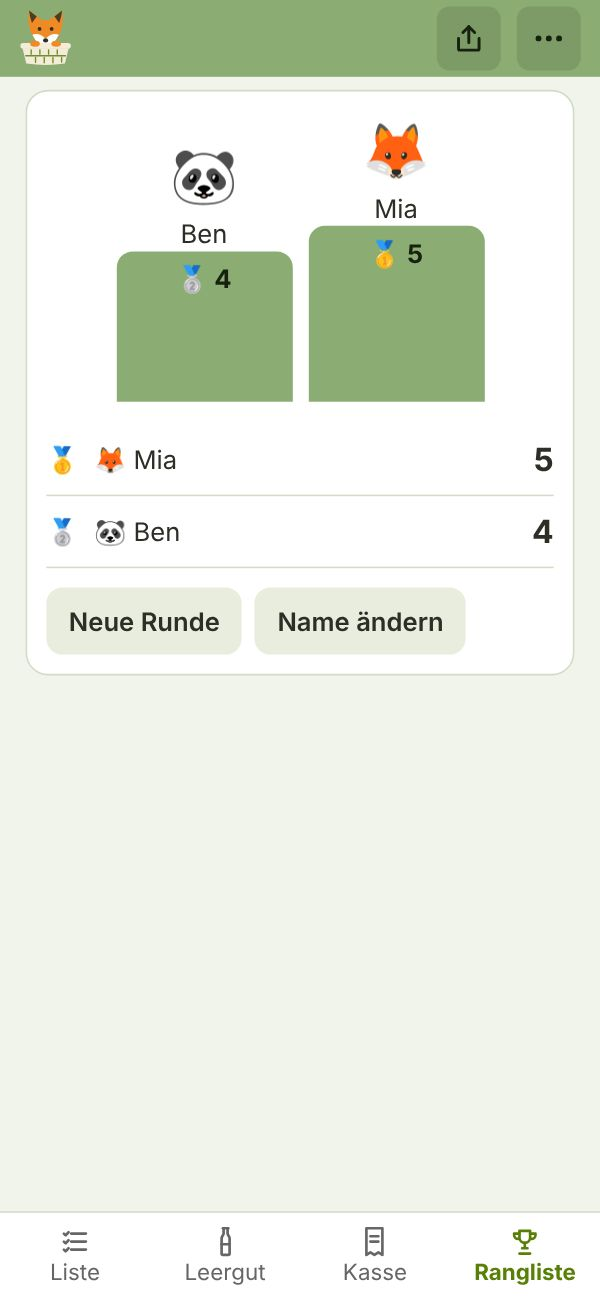
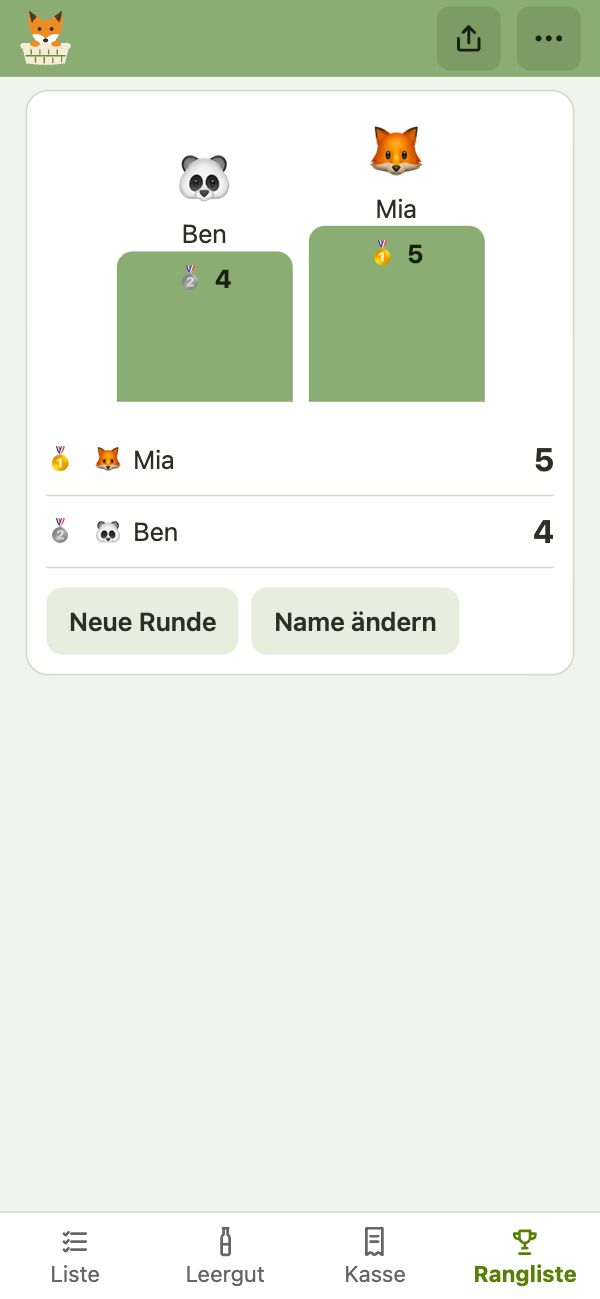
Regenerate screenshots for v2.4.1; hide build line in the menu shot; new README picture name
AGENTS.md: check for stale screenshots before every release.

diff --git a/AGENTS.md b/AGENTS.md
@@ -15,7 +15,7 @@ Guidance for AI agents and humans working on **Kober** (repository `kober`): a s
 - `public/` is the whole app (static, ES modules, no build). Served by GitHub Pages.
   - `app.js` UI and flows, `flows.js` the pure logic behind some flows (reset plan, too-long numbers, checkout ticks, VG loader state, first upload; DOM-free so `test/flows.test.js` covers it), `store.js` data layer, `vg.js` VG data, `i18n.js` texts, `sw.js` service worker, `legal-config.js` contact for the privacy page.
   - `privacy.html`, `docs/index.html` (help page for end users), `vendor/` (third-party: qrcode MIT, zxing Apache 2.0 with `zxing-LICENSE.txt`; excluded from checks). `privacy.html` and `docs/index.html` load their script from `privacy.js` and `docs/help.js`: all pages carry a Content-Security-Policy `<meta>` without inline scripts (`test/csp.test.js`). A new external host (fetch, script) must be added to the CSP in `index.html`.
-- Help page screenshots (`public/docs/img/<lang>-<scene>.jpg`) are built **locally and only when the user explicitly asks for it** (not in CI, not automatically after UI changes). The agent runs `npm run docs:screenshots` (`scripts/docs-screenshots.mjs`: `playwright-core` with the installed Chrome or `CHROME_PATH`, the real app in demo mode with Firebase off, invented VG demo data from `scripts/fixtures/vg/`, 375px, German and English). **Every generated image must be looked at (Read tool) before it is committed**: no cut-off or overlapping text, no toast or demo banner, no half-rendered state, the right language, the current UI (new buttons, colours). If something is off, fix the script or the app and render again. `npm run docs:screenshots -- /tmp/shots` previews without touching the repo. The same run also writes `readme-phones.png` (the README picture: the English list and ranking screens side by side in rounded phone frames with captions, transparent corners); it is not part of the help page, so regenerate and commit it together with the other images when the UI changes visibly (use a new file name when it changes, because GitHub caches README images by URL). **Order of work: screenshots come last.** Implement everything else first (code, texts, docs, tests), commit and push that, and only then render, check and commit the images, followed by a second push. Rendering earlier wastes work because every further UI change makes the images stale again. The images are not refreshed by UI changes on their own: when a change is visible in a screenshot scene, tell the user and offer to regenerate.
+- Help page screenshots (`public/docs/img/<lang>-<scene>.jpg`) are built **locally and only when the user explicitly asks for it** (not in CI, not automatically after UI changes). Exception: **before every release** check whether they are stale (`git log` of the UI files since the last commit of `public/docs/img`) and, if so, propose regenerating them first, so the release ships current images; the user's yes to that proposal is the ask. The menu scene hides the build line ("Kober dev"), so a release itself never makes the images stale. The agent runs `npm run docs:screenshots` (`scripts/docs-screenshots.mjs`: `playwright-core` with the installed Chrome or `CHROME_PATH`, the real app in demo mode with Firebase off, invented VG demo data from `scripts/fixtures/vg/`, 375px, German and English). **Every generated image must be looked at (Read tool) before it is committed**: no cut-off or overlapping text, no toast or demo banner, no half-rendered state, the right language, the current UI (new buttons, colours). If something is off, fix the script or the app and render again. `npm run docs:screenshots -- /tmp/shots` previews without touching the repo. The same run also writes `readme-phones-2.png` (the README picture: the English list and ranking screens side by side in rounded phone frames with captions, transparent corners); it is not part of the help page, so regenerate and commit it together with the other images when the UI changes visibly (use a new file name when it changes, because GitHub caches README images by URL). **Order of work: screenshots come last.** Implement everything else first (code, texts, docs, tests), commit and push that, and only then render, check and commit the images, followed by a second push. Rendering earlier wastes work because every further UI change makes the images stale again. The images are not refreshed by UI changes on their own: when a change is visible in a screenshot scene, tell the user and offer to regenerate.
 - `scripts/` maintenance scripts: `cleanup-lists.mjs` (cleanup of old lists), `make-icons.mjs` (`npm run icons`: draws the app icon, the fox peeking out of a Kober (a woven basket) on the VG green, and renders `public/icon.svg`, `public/logo.svg` and `public/icons/*.png` with Chrome; bump `VERSION` in `public/sw.js` afterwards). `database.rules.json` Firebase Realtime Database rules (**published by hand in the Firebase console**, see `docs/security.md`).
 - `test/` Node tests (`node --test`, no dependencies). `docs/` developer and maintainer docs (Markdown, English, not deployed; the end-user help page is `public/docs/`, served with the app).
 
@@ -53,7 +53,7 @@ Guidance for AI agents and humans working on **Kober** (repository `kober`): a s
 
 ## Release and dev site
 
-One GitHub Pages site shows two versions (`.github/workflows/pages.yml`, `scripts/build-site.mjs`): the **root is the latest release** (the newest tag `v*`; until the first tag exists it is main), **`/dev/` is the current main**. Work and push to main as usual: only `/dev/` changes. A release is cut by the user's word: `gh release create vX.Y.Z --target main --notes-file …` (or `git tag` + push), then `gh workflow run pages.yml --ref main` publishes it (a run started by the tag itself is rejected: the environment github-pages only accepts the branch main). Check the run, then the live site. Never tag on your own.
+One GitHub Pages site shows two versions (`.github/workflows/pages.yml`, `scripts/build-site.mjs`): the **root is the latest release** (the newest tag `v*`; until the first tag exists it is main), **`/dev/` is the current main**. Work and push to main as usual: only `/dev/` changes. A release is cut by the user's word: `gh release create vX.Y.Z --target main --notes-file …` (or `git tag` + push), then `gh workflow run pages.yml --ref main` publishes it (a run started by the tag itself is rejected: the environment github-pages only accepts the branch main). Check the run, then the live site. Never tag on your own. **When the user asks for a release, first check whether the screenshots need regenerating** (see Layout) and say so before tagging; regenerating, committing and pushing them comes before `gh release create`, because the release is tagged on main.
 
 - The dev copy is its own app. `public/env.js` derives `IS_DEV` from the path and `NS`, a prefix for **every** localStorage key (`LS` in `app.js`, the local database in `store.js`, the VG cache in `vg.js`) and for the service worker's cache names, because both sites share one origin. A new storage key or cache must use `NS`, otherwise a dev build can damage the data of the release.
 - The bottom of the "…" menu shows which build runs ("Kober v2.3.1" on the release, "Kober dev abc1234" on `/dev/`). `public/version.js` holds `BUILD` (default `dev`); `build-site.mjs` overwrites it per site from `RELEASE_LABEL` and `DEV_LABEL` (set in `pages.yml`).

diff --git a/README.md b/README.md
@@ -12,7 +12,7 @@ No account, no app store.
 
 [Install](https://fbnrst.github.io/kober/docs/#en-install) · [Help](https://fbnrst.github.io/kober/docs/) · [Privacy](https://fbnrst.github.io/kober/privacy.html)
 
-<img src="public/docs/img/readme-phones.png" alt="The list and the ranking tab on a phone" width="340" align="right">
+<img src="public/docs/img/readme-phones-2.png" alt="The list and the ranking tab on a phone" width="340" align="right">
 
 An independent, unofficial shopping list app. The list lives on your phone first; once you share it, phones sync live and a leaderboard ("who puts the most in the basket") starts. Idea and product data: the [VG app](https://gitlab.com/pyfox/vg-app) of VG Dresden. This project is not affiliated with VG Dresden.
 
